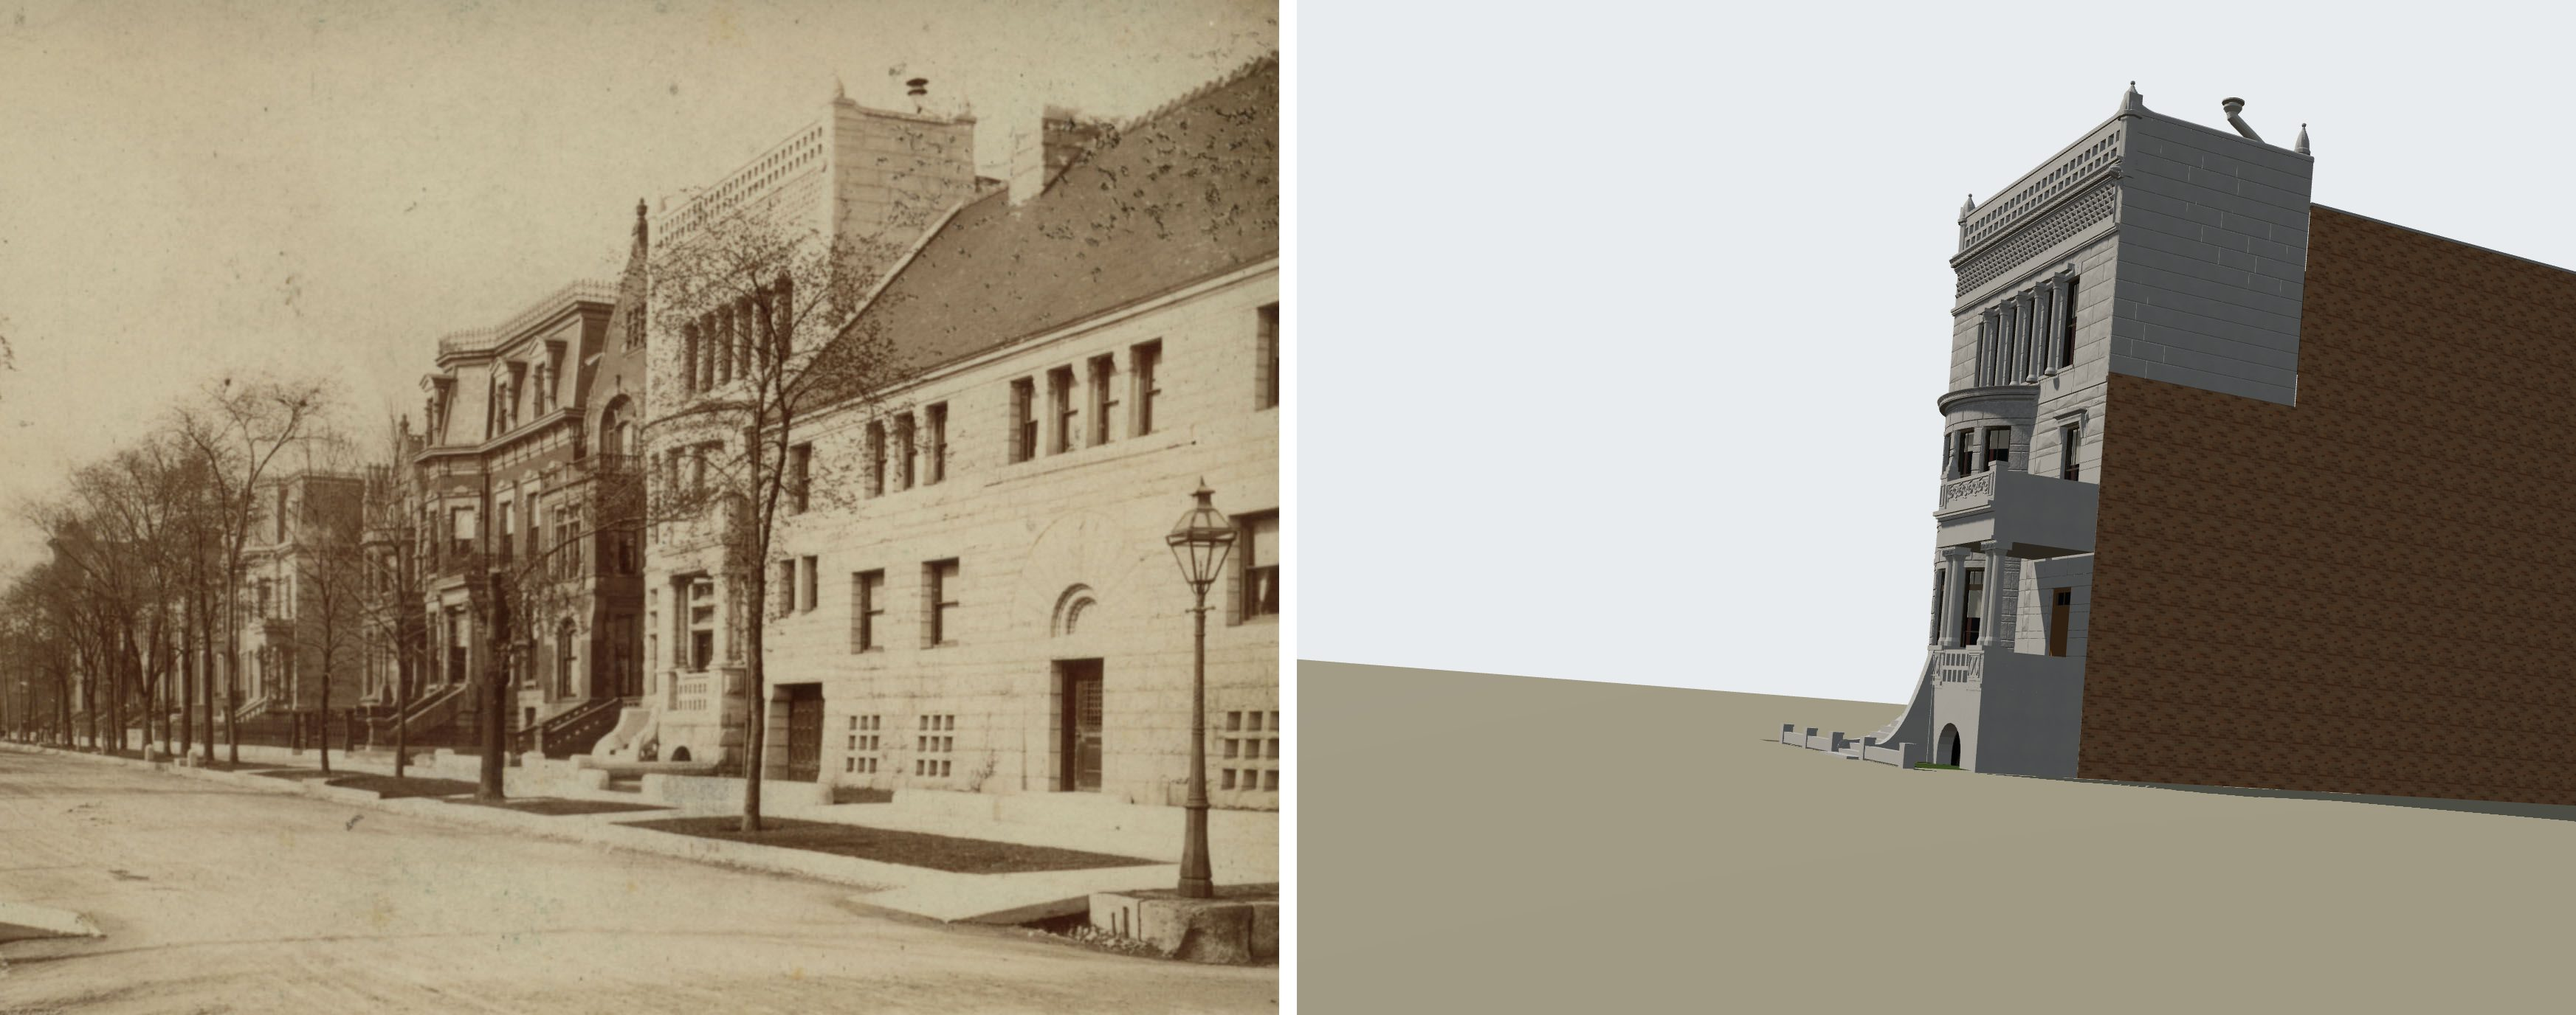
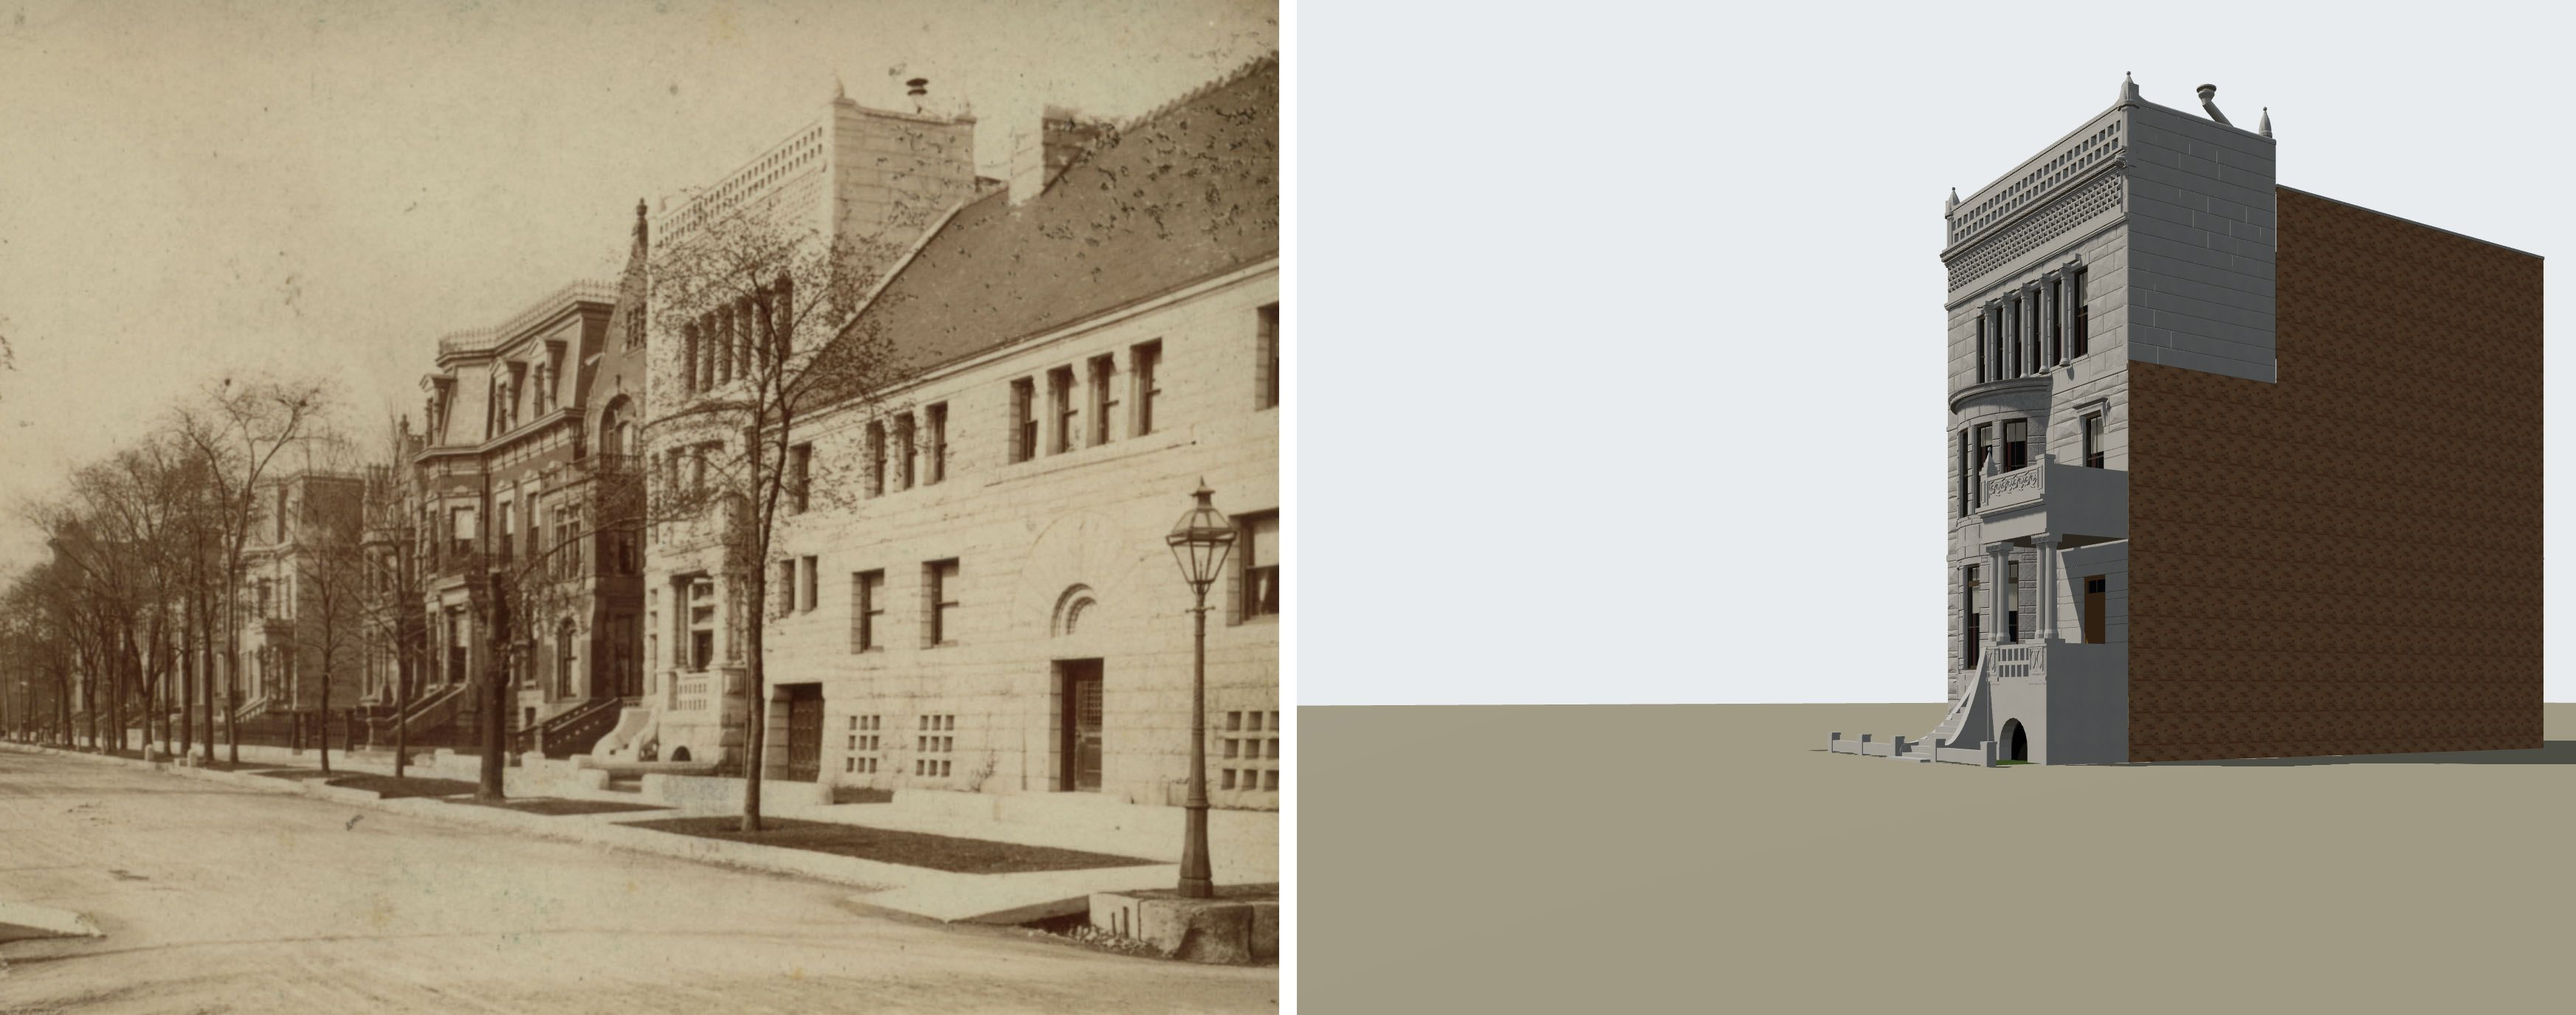
T-2748: Keith's c. 1888 SW view re-fit level on the pinnacle apexes; owner-1800 carried onto it
The c. 1888 SW camera (T-1883's, 4.5 degree roll, 9.1 px RMS, rear pinnacle ~60 px off) is
re-solved level on the three pinnacle apexes, the north arris, the lattice rows and the
southmost third-storey light: 4.1 px RMS, with pixel_aspect 0.885 measured from two points
it does not fit (northmost light head, T-1883's grade reading). photo_match.mjs takes an
optional pixel_aspect (default 1). T-2713's open item fixed; the cowl's set-back and the
stoop, now visible, are open and carried on T-2751. The owner's reproduction is carried
onto the new camera through its own SIFT map and given its reviewer's reason.

Changed region(s): [[0.4997, 0.0938, 1.0, 0.8125], [0.937, 0.2188, 0.9682, 0.25]]

diff --git a/chicago/4d/data/reference_views/README.md b/chicago/4d/data/reference_views/README.md
@@ -22,9 +22,9 @@ docs/RESEARCH/photo-match/<structure_id>/<view>-side-by-side.jpg   picture | ren
 **The camera** (`<view>.json`): `structure_id`; `source_id` (the picture's record in
 `data/sources/`) and/or `library_image` (its id in the Prairie image library,
 `chicago/prairie_1904_v1/research/images/stream-*.json`); `photo` (the picture's file, relative
-to the camera); `image_px`, `principal_px`, `focal_px`; `eye` `[u, v, y]` in the structure's
+to the camera); `image_px`, `principal_px`, `focal_px` (the vertical one, when `pixel_aspect` is given); `eye` `[u, v, y]` in the structure's
 footprint frame (u east toward the street, v north, metres over its grade); `yaw_deg` (clockwise
-from north); optional `basis_right_up_forward` (three orthonormal vectors in the same
+from north); optional `pixel_aspect` (horizontal over vertical focal length, default 1: a copy whose width was resampled apart from its height, which the `solve` must show — T-2748 measured 0.885 on the c. 1888 SW view of 1800-1808 Prairie from two points it did not fit); optional `basis_right_up_forward` (three orthonormal vectors in the same
 east/north/up frame, overriding yaw for an inclined or rolled photograph); `solve` (how the camera was fitted, in words and numbers: which lengths scaled it,
 which lines and points it was fitted to, the residuals); optionally `sun_uvy`, the direction
 the picture's sunlight comes from in the same frame, so the render lights the walls the picture
